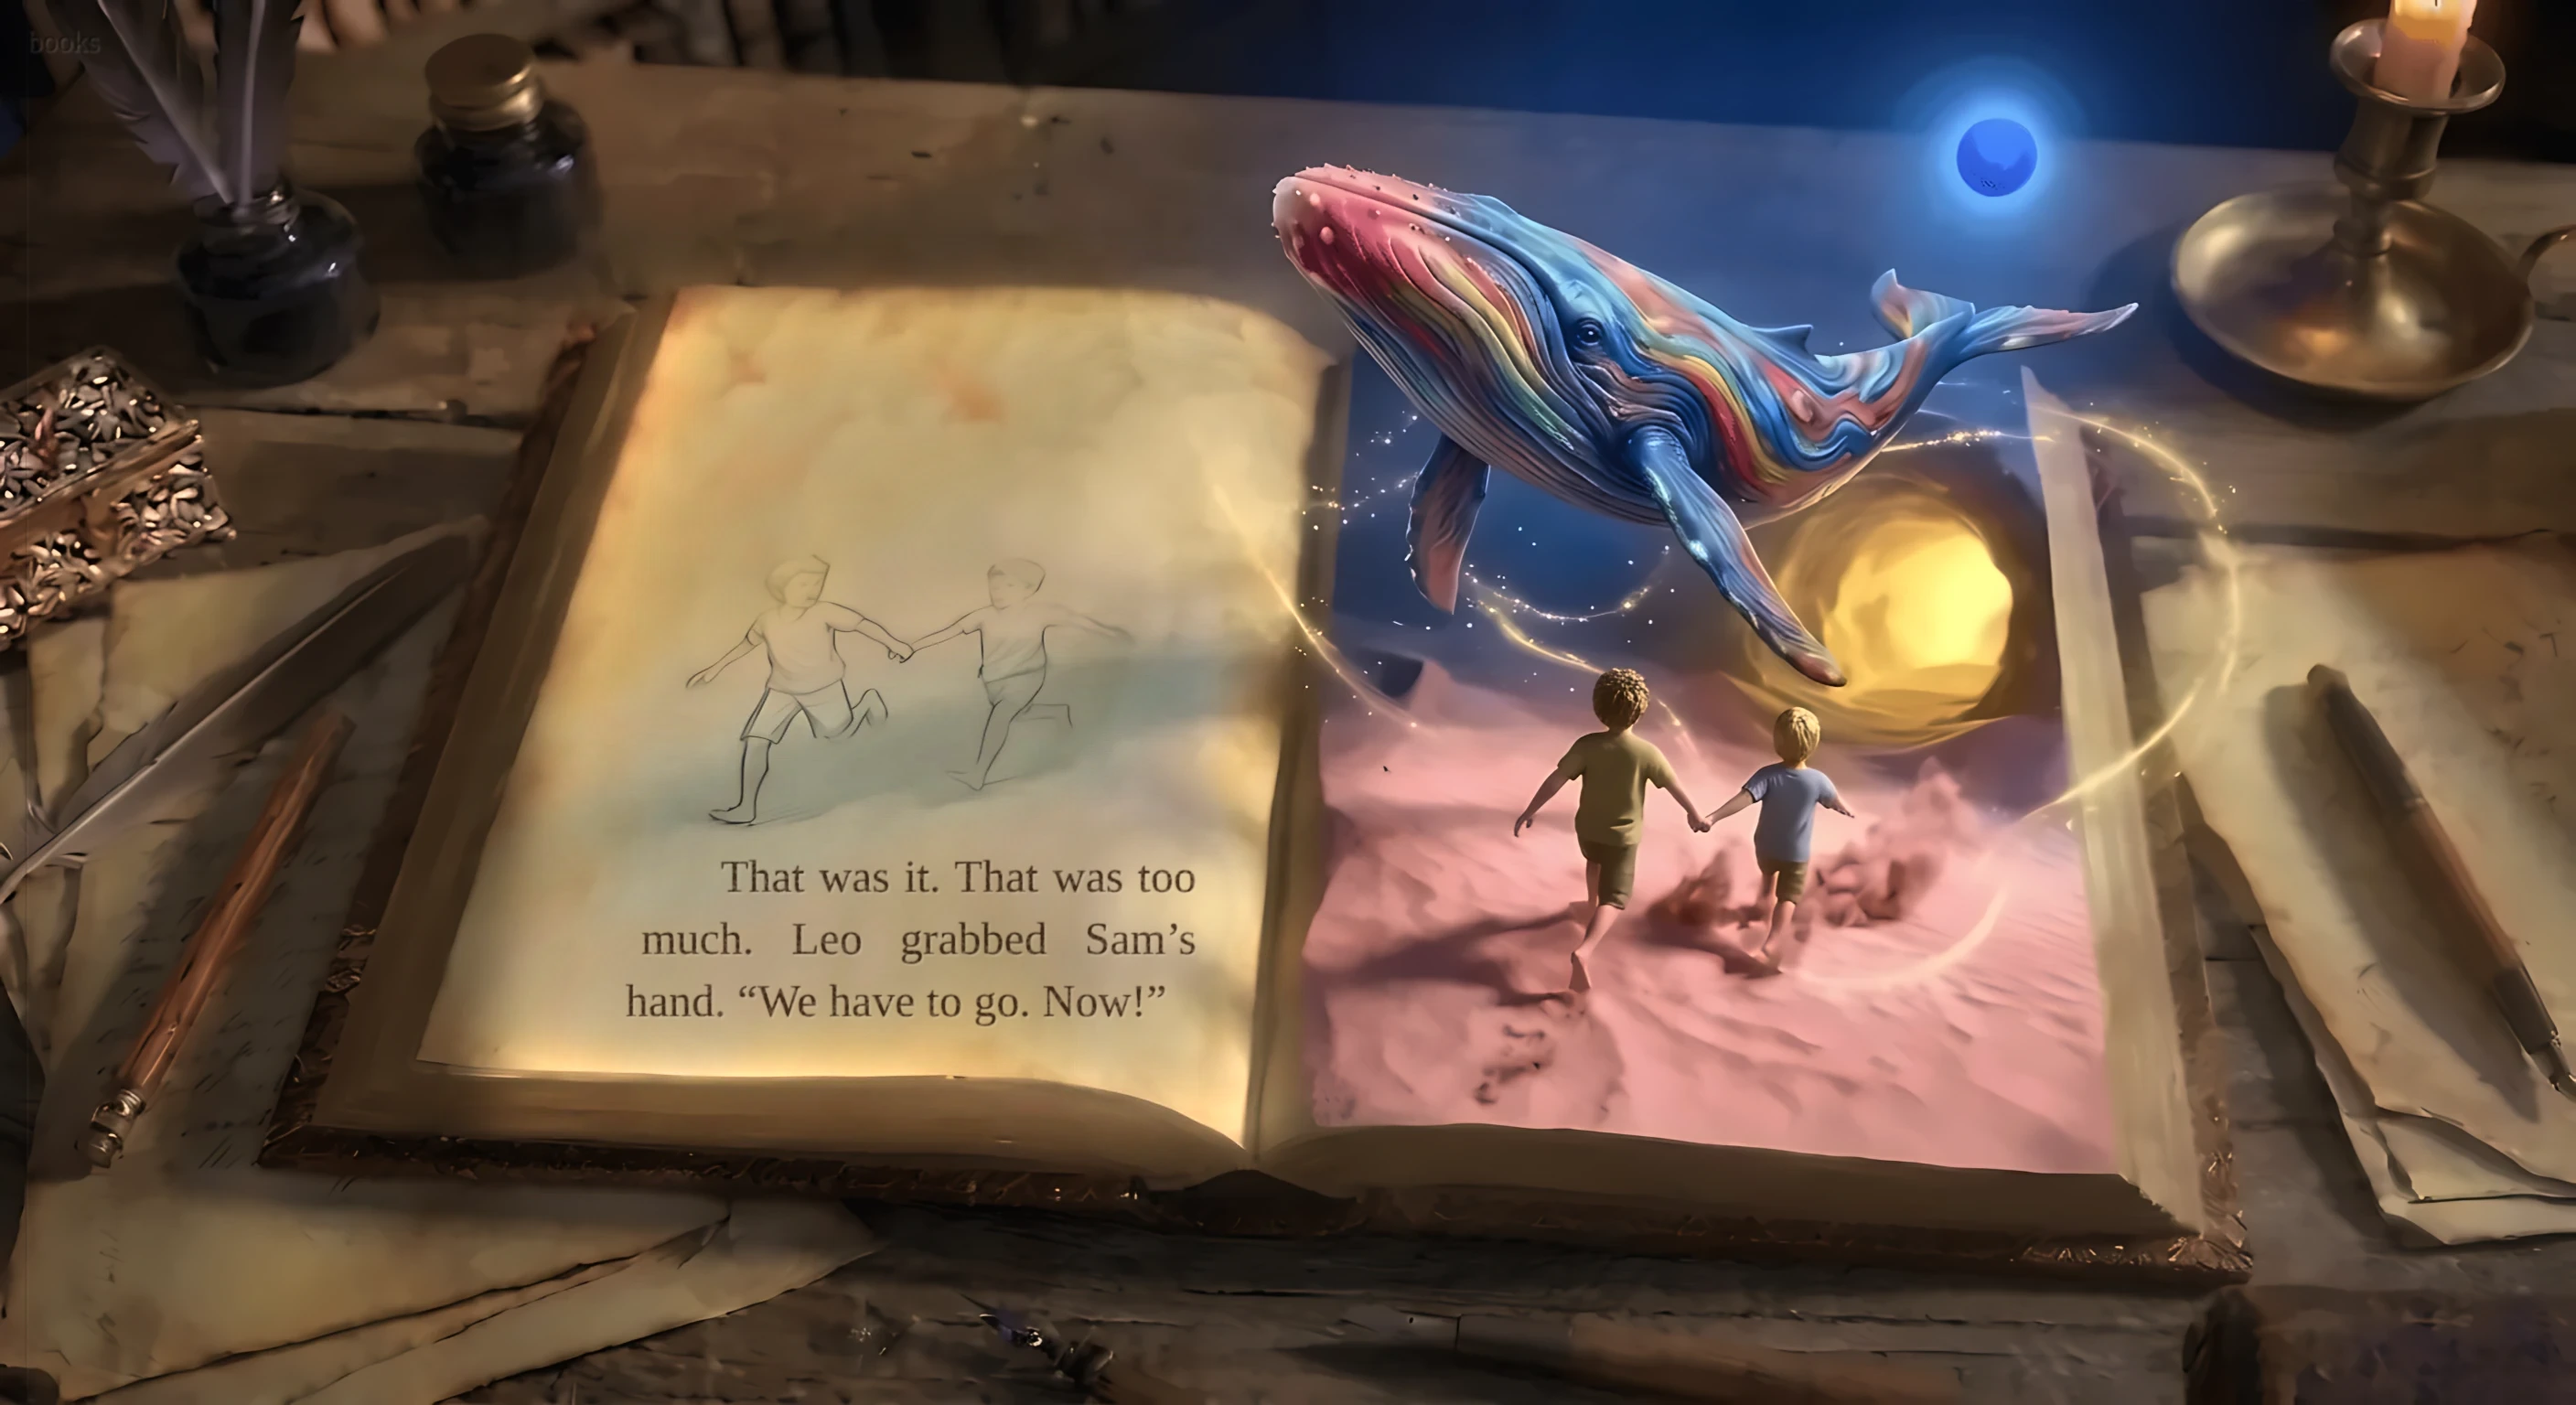
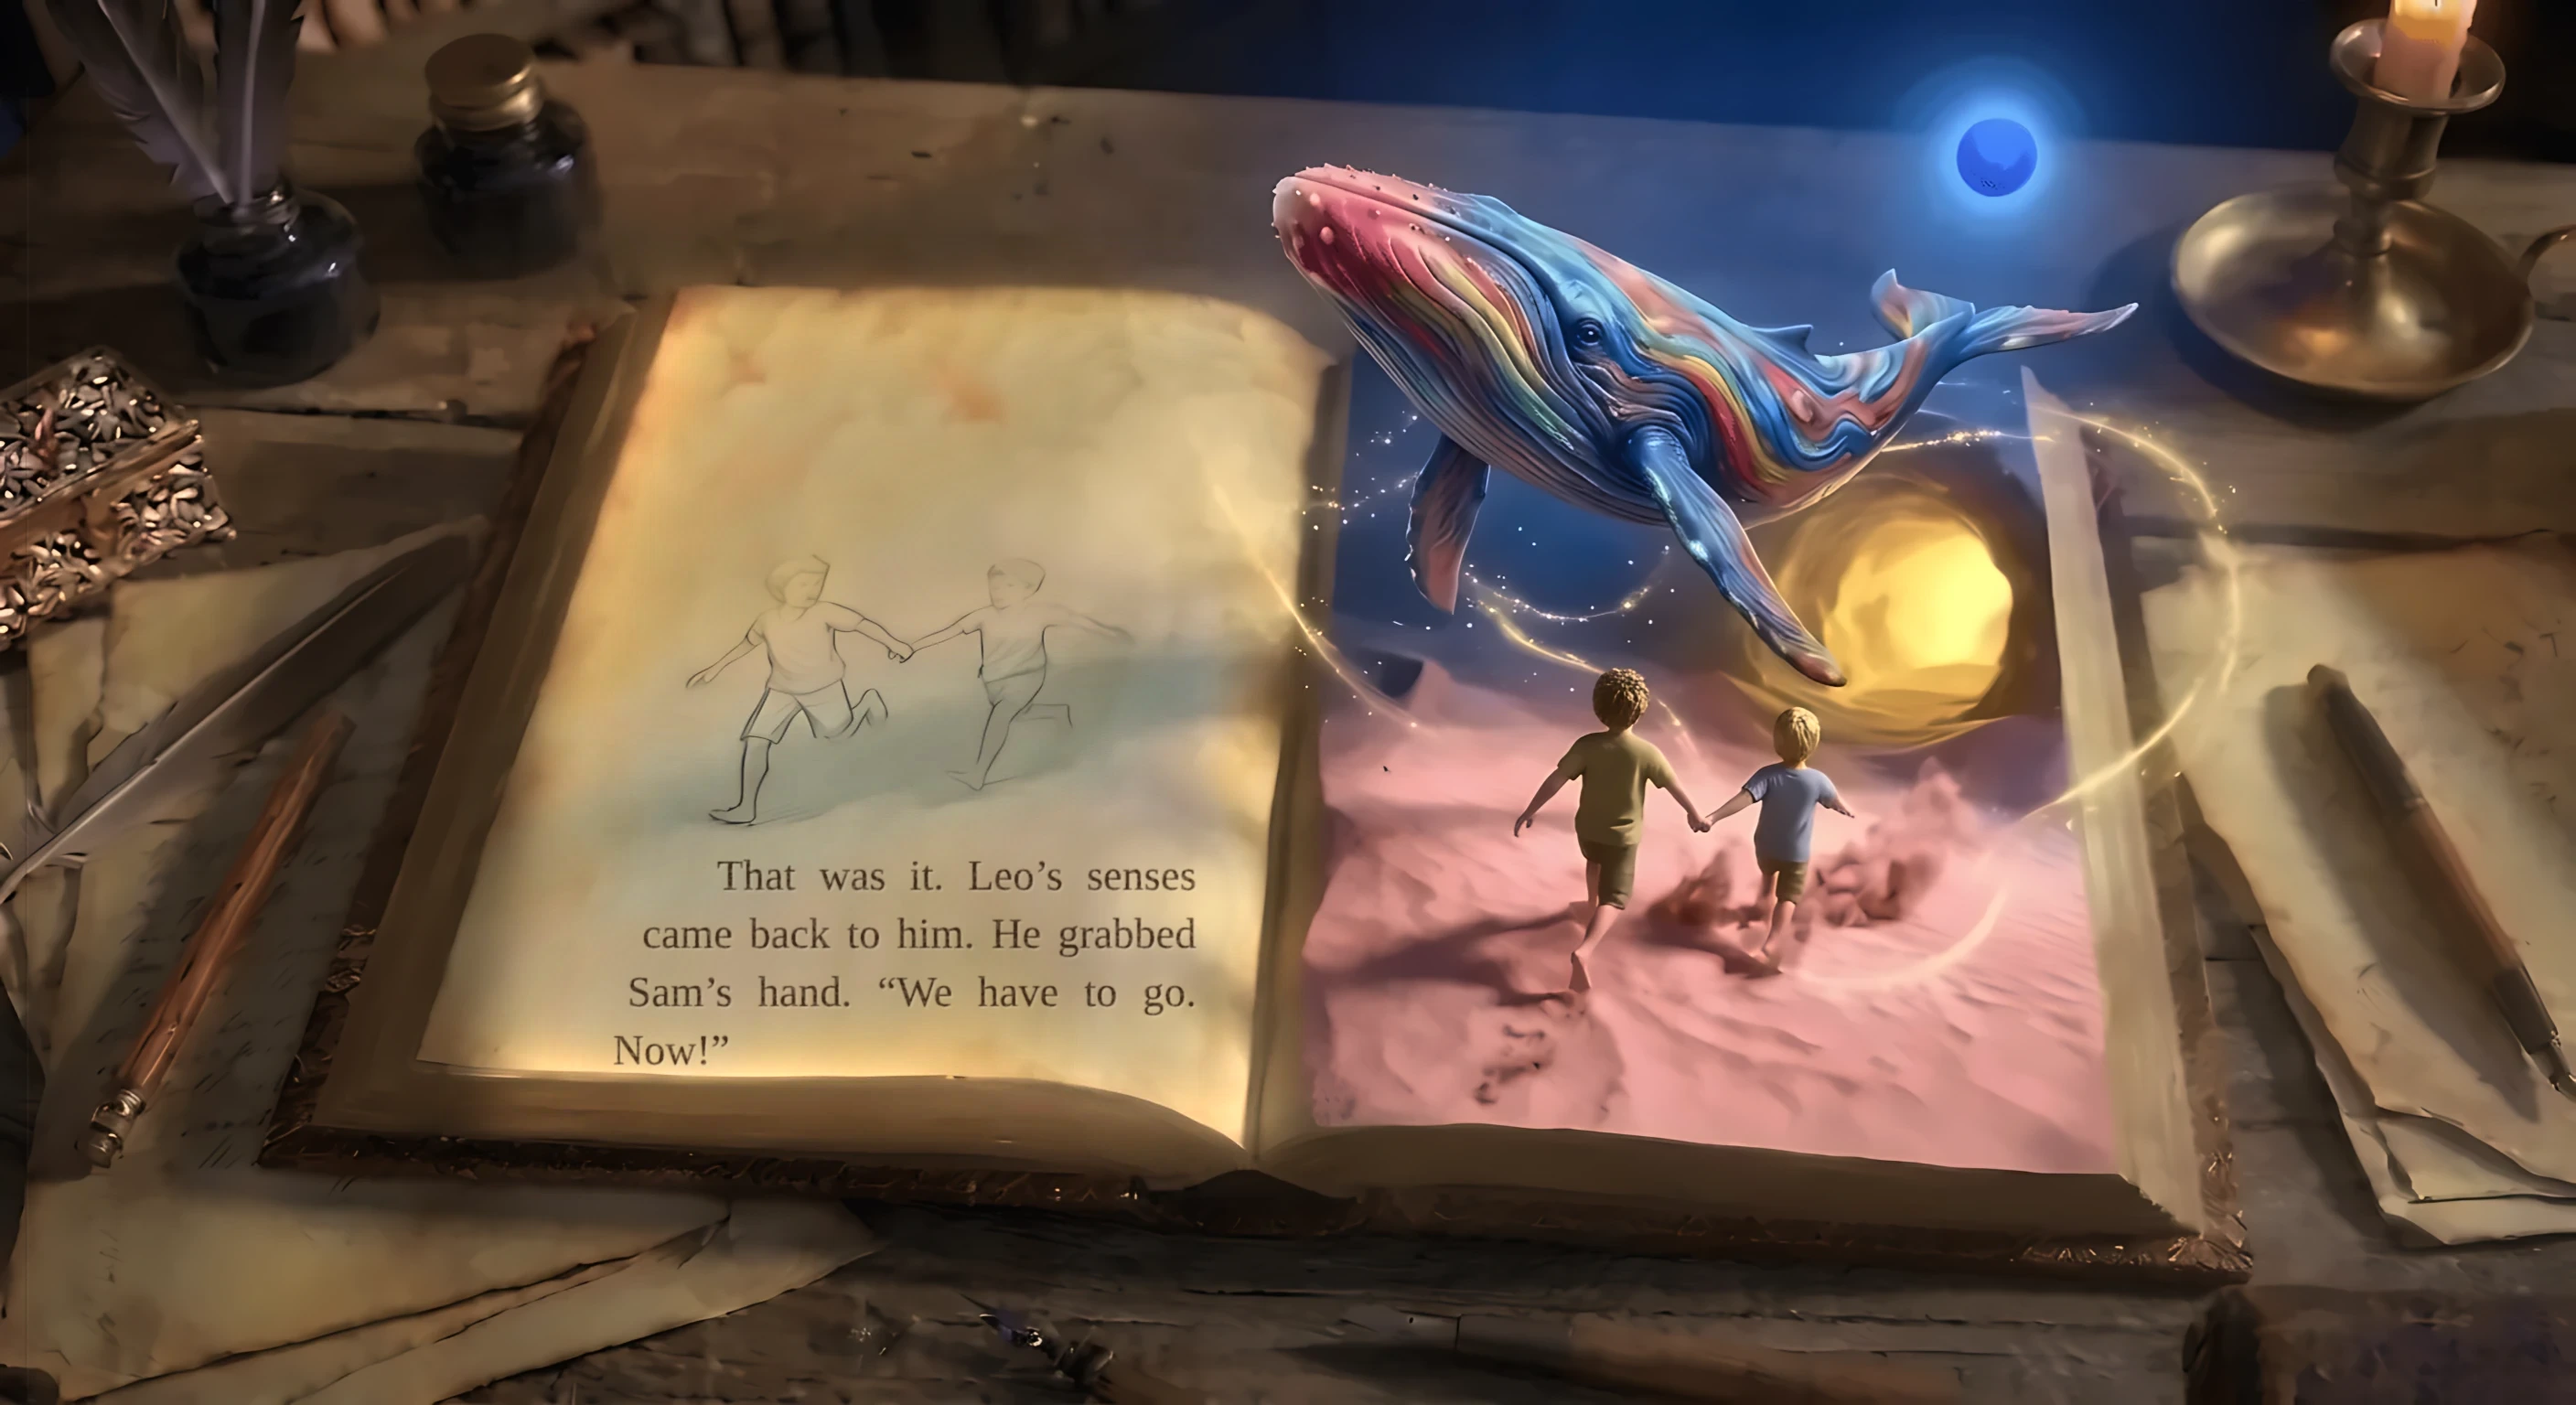
Page 24 text: Leo's senses came back
Claude-Session: https://claude.ai/code/session_01BFtifSTdmWYaAK88ECs5PE

Changed region(s): [[0.25, 0.5938, 0.4688, 0.75]]

diff --git a/books/upside-down-world/index.html b/books/upside-down-world/index.html
@@ -131,7 +131,7 @@ body.narrow #bar{gap:6px;padding-top:8px}body.narrow #bar button{padding:0 12px;
   <button id="auto" aria-pressed="true" title="Turn the pages by itself">Auto turn</button>
   <button id="next" aria-label="Next page">&#8594;</button>
 </div>
-<script src="story.js?v=128"></script>
+<script src="story.js?v=129"></script>
 <script src="sprite.js?v=42"></script>
 <script src="lyrics.js?v=2"></script><script src="lyrics2.js?v=1"></script>
 <script src="voice.js?v=20"></script>
@@ -217,7 +217,7 @@ const vids={};let blackT=null;
 function black(){if(!blackT&&gl){blackT=gl.createTexture();gl.bindTexture(gl.TEXTURE_2D,blackT);gl.texImage2D(gl.TEXTURE_2D,0,gl.RGB,1,1,0,gl.RGB,gl.UNSIGNED_BYTE,new Uint8Array([0,0,0]));}return {ready:true,t:blackT};}
 function loadVid(name){if(vids[name])return vids[name];const v=document.createElement('video');v.muted=true;v.defaultMuted=true;v.loop=true;v.playsInline=true;v.setAttribute('playsinline','');v.setAttribute('muted','');v.preload='auto';v.crossOrigin='anonymous';v.src='img/'+name+'.mp4?v=79';
   const o={v,t:null,ok:false};v.addEventListener('playing',()=>{o.ok=true;});vids[name]=o;return o;}
-function pageTex(p){if(p.video)return {c:loadTex('img/'+p.img+'.webp?v=88'),d:p.relief?loadTex('img/'+p.img+'-d.webp'):black(),vid:loadVid(p.video)};return {c:loadTex('img/'+p.img+'.webp?v=88'),d:loadTex('img/'+p.img+'-d.webp')};}
+function pageTex(p){if(p.video)return {c:loadTex('img/'+p.img+'.webp?v=89'),d:p.relief?loadTex('img/'+p.img+'-d.webp'):black(),vid:loadVid(p.video)};return {c:loadTex('img/'+p.img+'.webp?v=89'),d:loadTex('img/'+p.img+'-d.webp')};}
 const ORIGIN={kb:[.72,.55],shade:[.80,.74]};
 function whv(p){return p.whale?[p.whale[0]/1408,p.whale[1]/768,p.whale[2]/1408,p.whale[3]/768]:[0,0,0,0];}
 function swv(p){return p.swirl?[p.swirl[0]/1408,p.swirl[1]/768,p.swirl[2],p.swirl[3]||0]:[0,0,0,0];}
@@ -242,7 +242,7 @@ function makeLayer(i){
   if(layers[i])return layers[i];
   const p=P[i],L=document.createElement('div');L.className='layer';
   const kb=document.createElement('div');kb.className='kb';kb.style.transformOrigin=(p.fx==='shade'?'80% 74%':'72% 55%');
-  if(!gl){let im;if(p.video){im=loadVid(p.video).v;im.poster='img/'+p.img+'.webp';}else{im=new Image();im.src='img/'+p.img+'.webp?v=88';im.alt='';}im.className='fb';kb.appendChild(im);}
+  if(!gl){let im;if(p.video){im=loadVid(p.video).v;im.poster='img/'+p.img+'.webp';}else{im=new Image();im.src='img/'+p.img+'.webp?v=89';im.alt='';}im.className='fb';kb.appendChild(im);}
   if(p.fx==='shade'){const s=document.createElement('div');s.className='shade';kb.appendChild(s);L._shade=s;}
   if(p.song){const r=document.createElement('div');r.className='rings';r.style.cssText='left:'+(650/W*100)+'%;top:'+(55/H*100)+'%;width:'+(130/W*100)+'%;height:'+(130/H*100)+'%';r.innerHTML='<i></i><i></i><i></i><i></i>';kb.appendChild(r);L._rings=r;}
   const t=document.createElement('div');t.className='txt'+(p.cover?' cover':'')+(p.book?' bk':'')+(p.songcard?' sc':'')+(p.big?' big':'');let b=p.box;

diff --git a/books/upside-down-world/story.js b/books/upside-down-world/story.js
@@ -25,7 +25,7 @@ window.STORY={"title":"The Upside-Down World","author":"M. A. Mafodh","pages":[
 {"img":"p09","sprite":"p10k","swirl":[1090,85,0.004,0.12],"dust":true,"box":[374,172,636,596],"parts":["Suddenly, the great whale flipped, its multicolored tail sending ripples through the air."],"book":true},
 {"img":"p09_2","sprite":"p11k","swirl":[1090,85,0.004,0.12],"dust":true,"box":[345,466,640,592],"parts":["It opened its giant mouth and a sound came out, not a roar, but a deep, melodic song that sounded like bells and waves all mixed together."],"book":true},
 {"img":"p13s","video":"p13s","songcard":true,"nocover":true,"lyk":"LYR2","lyh":"c1245728","title":"Oh, Our Sweet World","sub":"Upside World","box":[330,490,600,590],"parts":["Oh, Our Sweet World"]},
-{"img":"p09_3","sprite":"p11k","swirl":[1090,85,0.004,0.12],"dust":true,"box":[345,466,640,592],"parts":["That was it. That was too much. Leo grabbed Sam's hand. \"We have to go. Now!\""],"book":true},
+{"img":"p09_3","sprite":"p11k","swirl":[1090,85,0.004,0.12],"dust":true,"box":[345,466,640,592],"parts":["That was it. Leo’s senses came back to him. He grabbed Sam’s hand. \"We have to go. Now!\""],"book":true},
 {"img":"p09_4","sprite":"p11k","swirl":[1090,85,0.004,0.12],"dust":true,"box":[345,466,640,592],"parts":["\"But the whale!\" Sam cried, trying to pull back. \"NOW, Sam!\" Leo yanked him toward the glowing tunnel they had come from."],"book":true},
 {"img":"p09_5","sprite":"p11k","swirl":[1090,85,0.004,0.12],"dust":true,"box":[345,466,640,592],"parts":["The magic of the place was suddenly scary, too big and too strange."],"book":true},
 {"img":"p10","sprite":"p12k","wind":-1.3,"swirl":[1090,85,0.004],"dust":true,"box":[374,172,636,596],"parts":["They scrambled back through the tunnel, stumbling over each other, and burst out from under the oak tree, landing in a heap on the familiar grass of the park."],"book":true},
